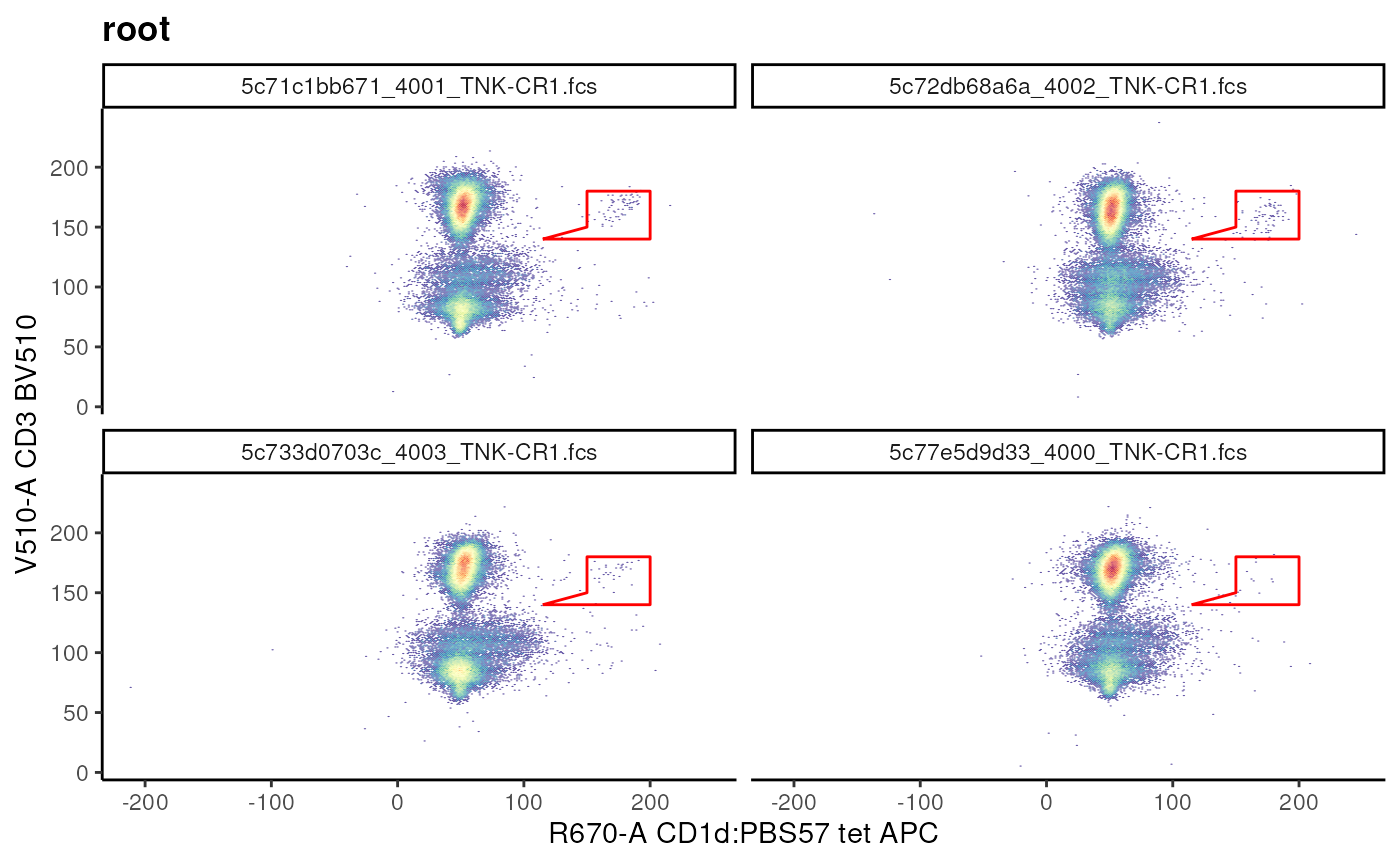
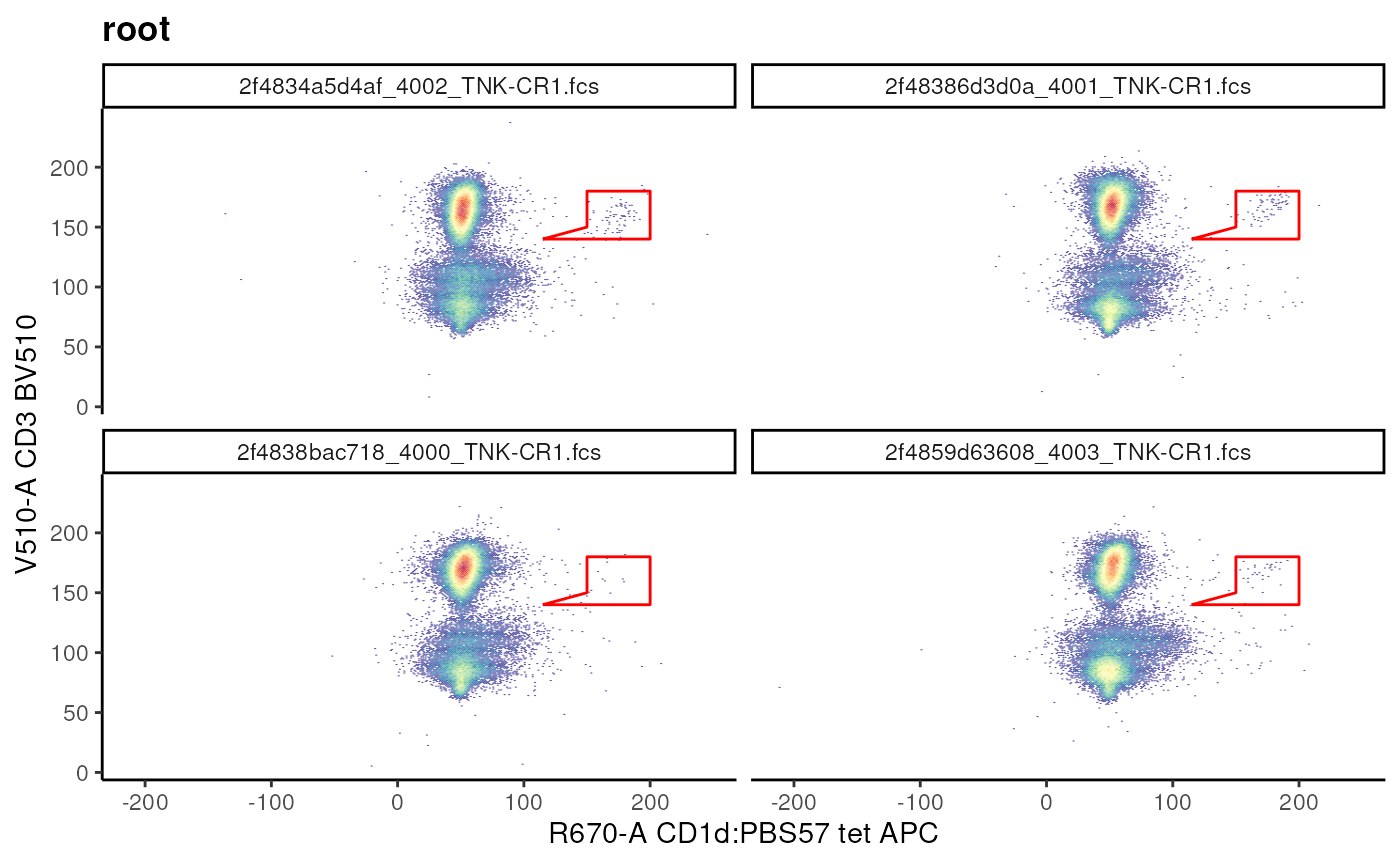
Deploying to gh-pages from @ OzetteTech/cytoverse-bioc-2023@2839de1af48268f385cebfff6d7293a1beef17b5 🚀

diff --git a/articles/1_Import_fcs.html b/articles/1_Import_fcs.html
@@ -278,7 +278,7 @@ indicated in the <code>rpath</code> variable.</p>
 <span></span>
 <span><span class="co"># a cytoframe object</span></span>
 <span><span class="va">cf</span></span></code></pre></div>
-<pre><code><span><span class="co">## cytoframe object '5c77e5d9d33_4000_TNK-CR1.fcs'</span></span>
+<pre><code><span><span class="co">## cytoframe object '2f4838bac718_4000_TNK-CR1.fcs'</span></span>
 <span><span class="co">## with 102015 cells and 33 observables:</span></span>
 <span><span class="co">##                   name            desc     range  minRange  maxRange</span></span>
 <span><span class="co">## $P1              FSC-A              NA    262143    0.0000    262143</span></span>
@@ -530,7 +530,7 @@ expression matrix <code>exprs(cf)</code> as well as the columns of the
 <code class="sourceCode R"><span><span class="co"># subset cytorame by column</span></span>
 <span><span class="va">s_cf</span> <span class="op">&lt;-</span> <span class="va">cf</span><span class="op">[</span>, <span class="va">CD4_chan</span><span class="op">]</span></span>
 <span><span class="va">s_cf</span></span></code></pre></div>
-<pre><code><span><span class="co">## cytoframe object '5c77e5d9d33_4000_TNK-CR1.fcs'</span></span>
+<pre><code><span><span class="co">## cytoframe object '2f4838bac718_4000_TNK-CR1.fcs'</span></span>
 <span><span class="co">## with 102015 cells and 1 observables:</span></span>
 <span><span class="co">##        name       desc     range  minRange  maxRange</span></span>
 <span><span class="co">## $P23 U785-A CD4 BUV805    262143  -80.5002    262143</span></span>
@@ -541,7 +541,7 @@ expression matrix <code>exprs(cf)</code> as well as the columns of the
 <code class="sourceCode R"><span><span class="co"># subset cytoframe by row</span></span>
 <span><span class="va">s2_cf</span> <span class="op">&lt;-</span> <span class="va">cf</span><span class="op">[</span><span class="fl">1</span><span class="op">:</span><span class="fl">100</span>, <span class="op">]</span></span>
 <span><span class="va">s2_cf</span></span></code></pre></div>
-<pre><code><span><span class="co">## cytoframe object '5c77e5d9d33_4000_TNK-CR1.fcs'</span></span>
+<pre><code><span><span class="co">## cytoframe object '2f4838bac718_4000_TNK-CR1.fcs'</span></span>
 <span><span class="co">## with 100 cells and 33 observables:</span></span>
 <span><span class="co">##                   name            desc     range  minRange  maxRange</span></span>
 <span><span class="co">## $P1              FSC-A              NA    262143    0.0000    262143</span></span>
@@ -717,13 +717,13 @@ the <code>sampleNames</code> of the <code>cytoset</code>.</p>
 <div class="sourceCode" id="cb44"><pre class="downlit sourceCode r">
 <code class="sourceCode R"><span><span class="co"># prior to providing metadata</span></span>
 <span><span class="fu"><a href="https://rdrr.io/pkg/Biobase/man/phenoData.html" class="external-link">pData</a></span><span class="op">(</span><span class="va">cs</span><span class="op">)</span></span></code></pre></div>
-<pre><code><span><span class="co">##                                                      name</span></span>
-<span><span class="co">## 5c759f9821f_4000_BDC-CR1.fcs 5c759f9821f_4000_BDC-CR1.fcs</span></span>
-<span><span class="co">## 5c77e5d9d33_4000_TNK-CR1.fcs 5c77e5d9d33_4000_TNK-CR1.fcs</span></span>
-<span><span class="co">## 5c73a2a2f47_4001_BDC-CR1.fcs 5c73a2a2f47_4001_BDC-CR1.fcs</span></span>
-<span><span class="co">## 5c71c1bb671_4001_TNK-CR1.fcs 5c71c1bb671_4001_TNK-CR1.fcs</span></span>
-<span><span class="co">## 5c72db68a6a_4002_TNK-CR1.fcs 5c72db68a6a_4002_TNK-CR1.fcs</span></span>
-<span><span class="co">## 5c733d0703c_4003_TNK-CR1.fcs 5c733d0703c_4003_TNK-CR1.fcs</span></span></code></pre>
+<pre><code><span><span class="co">##                                                        name</span></span>
+<span><span class="co">## 2f4828a5e2ae_4000_BDC-CR1.fcs 2f4828a5e2ae_4000_BDC-CR1.fcs</span></span>
+<span><span class="co">## 2f4838bac718_4000_TNK-CR1.fcs 2f4838bac718_4000_TNK-CR1.fcs</span></span>
+<span><span class="co">## 2f4816f623ce_4001_BDC-CR1.fcs 2f4816f623ce_4001_BDC-CR1.fcs</span></span>
+<span><span class="co">## 2f48386d3d0a_4001_TNK-CR1.fcs 2f48386d3d0a_4001_TNK-CR1.fcs</span></span>
+<span><span class="co">## 2f4834a5d4af_4002_TNK-CR1.fcs 2f4834a5d4af_4002_TNK-CR1.fcs</span></span>
+<span><span class="co">## 2f4859d63608_4003_TNK-CR1.fcs 2f4859d63608_4003_TNK-CR1.fcs</span></span></code></pre>
 <div class="sourceCode" id="cb46"><pre class="downlit sourceCode r">
 <code class="sourceCode R"><span><span class="co"># create metadata</span></span>
 <span><span class="va">metadata</span> <span class="op">&lt;-</span> <span class="fu"><a href="https://rdrr.io/r/base/data.frame.html" class="external-link">data.frame</a></span><span class="op">(</span></span>
@@ -751,13 +751,13 @@ the <code>sampleNames</code> of the <code>cytoset</code>.</p>
 <span><span class="fu"><a href="https://rdrr.io/r/base/row.names.html" class="external-link">row.names</a></span><span class="op">(</span><span class="va">metadata</span><span class="op">)</span> <span class="op">&lt;-</span> <span class="fu"><a href="https://rdrr.io/pkg/Biobase/man/featureNames.html" class="external-link">sampleNames</a></span><span class="op">(</span><span class="va">cs</span><span class="op">)</span></span>
 <span><span class="fu"><a href="https://rdrr.io/pkg/Biobase/man/phenoData.html" class="external-link">pData</a></span><span class="op">(</span><span class="va">cs</span><span class="op">)</span> <span class="op">&lt;-</span> <span class="va">metadata</span></span>
 <span><span class="fu"><a href="https://rdrr.io/pkg/Biobase/man/phenoData.html" class="external-link">pData</a></span><span class="op">(</span><span class="va">cs</span><span class="op">)</span></span></code></pre></div>
-<pre><code><span><span class="co">##                              Treatment         panel</span></span>
-<span><span class="co">## 5c759f9821f_4000_BDC-CR1.fcs Untreated Myeloid Panel</span></span>
-<span><span class="co">## 5c77e5d9d33_4000_TNK-CR1.fcs   Treated  T Cell Panel</span></span>
-<span><span class="co">## 5c73a2a2f47_4001_BDC-CR1.fcs Untreated Myeloid Panel</span></span>
-<span><span class="co">## 5c71c1bb671_4001_TNK-CR1.fcs   Treated  T Cell Panel</span></span>
-<span><span class="co">## 5c72db68a6a_4002_TNK-CR1.fcs Untreated  T Cell Panel</span></span>
-<span><span class="co">## 5c733d0703c_4003_TNK-CR1.fcs   Treated  T Cell Panel</span></span></code></pre>
+<pre><code><span><span class="co">##                               Treatment         panel</span></span>
+<span><span class="co">## 2f4828a5e2ae_4000_BDC-CR1.fcs Untreated Myeloid Panel</span></span>
+<span><span class="co">## 2f4838bac718_4000_TNK-CR1.fcs   Treated  T Cell Panel</span></span>
+<span><span class="co">## 2f4816f623ce_4001_BDC-CR1.fcs Untreated Myeloid Panel</span></span>
+<span><span class="co">## 2f48386d3d0a_4001_TNK-CR1.fcs   Treated  T Cell Panel</span></span>
+<span><span class="co">## 2f4834a5d4af_4002_TNK-CR1.fcs Untreated  T Cell Panel</span></span>
+<span><span class="co">## 2f4859d63608_4003_TNK-CR1.fcs   Treated  T Cell Panel</span></span></code></pre>
 <p>The benefit of having metadata is that we can use many of the
 sub-setting operations in a metadata specific manner.</p>
 <p>This is much more convenient than going back and forth between the
@@ -773,9 +773,9 @@ full set of files.</p>
 <span><span class="co">##     FSC-A, FSC-H, SSC-A, B515-A, B610-A, B660-A, B710-A, B780-A, G575-A, G610-A, G660-A, G710-A, G780-A, R670-A, R730-A, R780-A, U390-A, U450-A, U500-A, U570-A, U660-A, U740-A, U785-A, V450-A, V510-A, V570-A, V605-A, V655-A, V710-A, V750-A, V785-A, remove_from_FS_FM, Time</span></span></code></pre>
 <div class="sourceCode" id="cb53"><pre class="downlit sourceCode r">
 <code class="sourceCode R"><span><span class="fu"><a href="https://rdrr.io/pkg/Biobase/man/phenoData.html" class="external-link">pData</a></span><span class="op">(</span><span class="va">cs_myeloid</span><span class="op">)</span></span></code></pre></div>
-<pre><code><span><span class="co">##                              Treatment         panel</span></span>
-<span><span class="co">## 5c759f9821f_4000_BDC-CR1.fcs Untreated Myeloid Panel</span></span>
-<span><span class="co">## 5c73a2a2f47_4001_BDC-CR1.fcs Untreated Myeloid Panel</span></span></code></pre>
+<pre><code><span><span class="co">##                               Treatment         panel</span></span>
+<span><span class="co">## 2f4828a5e2ae_4000_BDC-CR1.fcs Untreated Myeloid Panel</span></span>
+<span><span class="co">## 2f4816f623ce_4001_BDC-CR1.fcs Untreated Myeloid Panel</span></span></code></pre>
 <div class="section level3">
 <h3 id="cytoset-views-and-aliasing">Cytoset views and aliasing<a class="anchor" aria-label="anchor" href="#cytoset-views-and-aliasing"></a>
 </h3>
@@ -824,10 +824,10 @@ To confirm this, you can use <code>cs_get_uri</code> or
 <code>cf_get_uri</code>:</p>
 <div class="sourceCode" id="cb63"><pre class="downlit sourceCode r">
 <code class="sourceCode R"><span><span class="fu"><a href="https://rdrr.io/pkg/flowWorkspace/man/cs_get_uri.html" class="external-link">cs_get_uri</a></span><span class="op">(</span><span class="va">cs_small</span><span class="op">)</span></span></code></pre></div>
-<pre><code><span><span class="co">## [1] "/tmp/RtmphQtnBs/2477bc23-b288-44fa-af17-0a51ceae2776"</span></span></code></pre>
+<pre><code><span><span class="co">## [1] "/tmp/Rtmpsnb586/f20fbf7a-643f-4c25-a8ed-78312dac756e"</span></span></code></pre>
 <div class="sourceCode" id="cb65"><pre class="downlit sourceCode r">
 <code class="sourceCode R"><span><span class="fu"><a href="https://rdrr.io/pkg/flowWorkspace/man/cs_get_uri.html" class="external-link">cs_get_uri</a></span><span class="op">(</span><span class="va">cs</span><span class="op">)</span></span></code></pre></div>
-<pre><code><span><span class="co">## [1] "/tmp/RtmphQtnBs/2477bc23-b288-44fa-af17-0a51ceae2776"</span></span></code></pre>
+<pre><code><span><span class="co">## [1] "/tmp/Rtmpsnb586/f20fbf7a-643f-4c25-a8ed-78312dac756e"</span></span></code></pre>
 <p>To perform a <strong>deep copy</strong> we can use
 <code><a href="https://rdrr.io/pkg/flowWorkspace/man/cytoframe.html" class="external-link">realize_view()</a></code></p>
 <div class="sourceCode" id="cb67"><pre class="downlit sourceCode r">
@@ -932,13 +932,13 @@ attempted to be coerced to a single array like object. (Set
 <code class="sourceCode R"><span><span class="co"># getting number of rows (cells) of individual cytoframes</span></span>
 <span><span class="va">n_cell_events</span> <span class="op">&lt;-</span> <span class="fu"><a href="https://rdrr.io/pkg/flowCore/man/fsApply.html" class="external-link">fsApply</a></span><span class="op">(</span><span class="va">cs</span>, <span class="va">nrow</span><span class="op">)</span></span>
 <span><span class="va">n_cell_events</span></span></code></pre></div>
-<pre><code><span><span class="co">##                                [,1]</span></span>
-<span><span class="co">## 5c759f9821f_4000_BDC-CR1.fcs 912254</span></span>
-<span><span class="co">## 5c77e5d9d33_4000_TNK-CR1.fcs 102015</span></span>
-<span><span class="co">## 5c73a2a2f47_4001_BDC-CR1.fcs 924474</span></span>
-<span><span class="co">## 5c71c1bb671_4001_TNK-CR1.fcs  92703</span></span>
-<span><span class="co">## 5c72db68a6a_4002_TNK-CR1.fcs 372224</span></span>
-<span><span class="co">## 5c733d0703c_4003_TNK-CR1.fcs 146150</span></span></code></pre>
+<pre><code><span><span class="co">##                                 [,1]</span></span>
+<span><span class="co">## 2f4828a5e2ae_4000_BDC-CR1.fcs 912254</span></span>
+<span><span class="co">## 2f4838bac718_4000_TNK-CR1.fcs 102015</span></span>
+<span><span class="co">## 2f4816f623ce_4001_BDC-CR1.fcs 924474</span></span>
+<span><span class="co">## 2f48386d3d0a_4001_TNK-CR1.fcs  92703</span></span>
+<span><span class="co">## 2f4834a5d4af_4002_TNK-CR1.fcs 372224</span></span>
+<span><span class="co">## 2f4859d63608_4003_TNK-CR1.fcs 146150</span></span></code></pre>
 <div class="section level3">
 <h3 id="exercises">Exercises<a class="anchor" aria-label="anchor" href="#exercises"></a>
 </h3>
